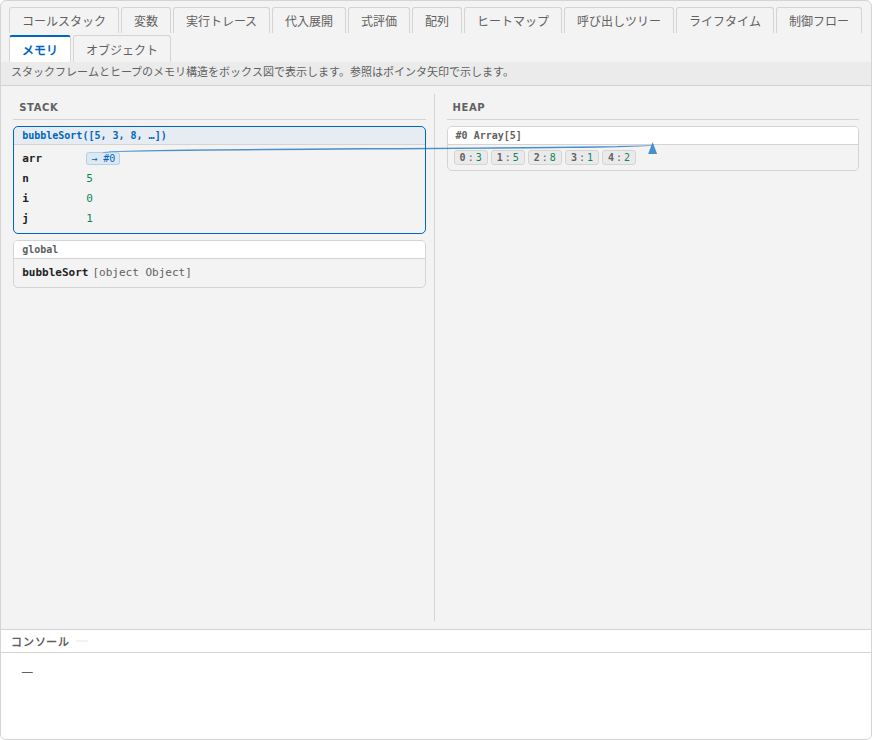
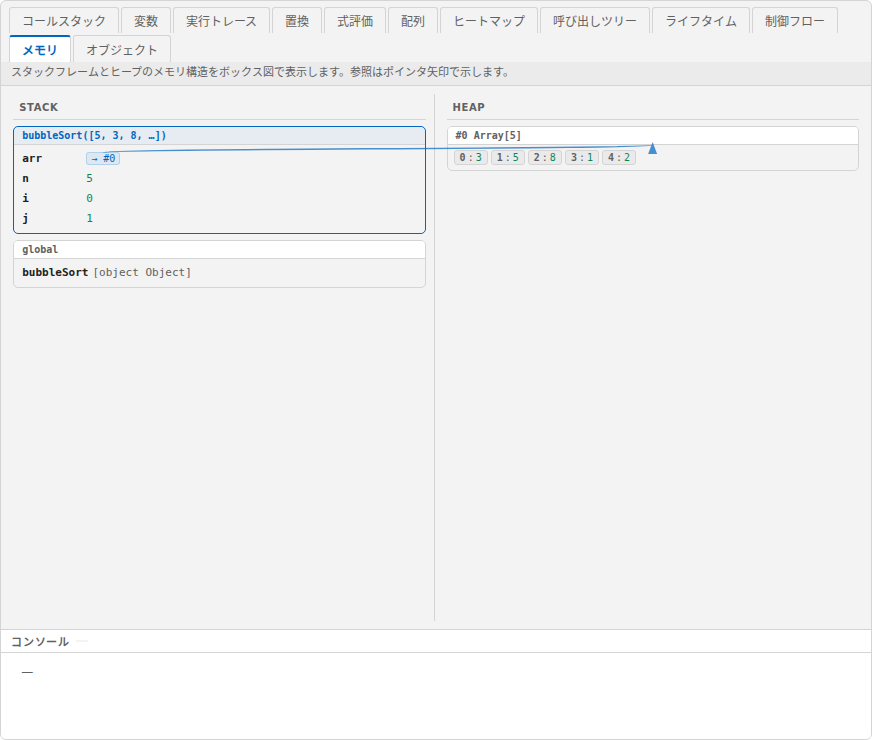
feat: 「代入展開」タブの名前を「置換」に変える
このビューは関数呼び出しを置換モデル（substitution model）で式に置き換えていく過程を表しており、
JavaScript の代入（assignment）とは関係がないため「代入展開」では意味が伝わらない（ADR-044）。
ビューIDは subst のまま。利用者向けマニュアル・README・CLAUDE.md・機能仕様書(1.18)・設計書を合わせて直し、
マニュアルのスクリーンショットを撮り直した。ADR一覧に抜けていた ADR-043 も追記した。

Changed region(s): [[0.3096, 0.0, 0.9599, 0.0622]]

diff --git a/web/manual.html b/web/manual.html
@@ -309,7 +309,7 @@
       <h2>6. 可視化ビュー</h2>
       <p>画面右側では、プログラムの動きをさまざまな形で見ることができます。上部のタブで12種類のビューを切り替えられます。目的によって分かりやすいビューは違うので、いろいろ試して自分に合った見方を探してみてください。</p>
       <ul>
-        <li>コードの内容によっては使えないビューがあり、そのタブはグレーで表示されます（たとえば、関数を使っていないコードでは「代入展開」「呼び出しツリー」は使えません）。</li>
+        <li>コードの内容によっては使えないビューがあり、そのタブはグレーで表示されます（たとえば、関数を使っていないコードでは「置換」「呼び出しツリー」は使えません）。</li>
         <li>最後に見ていたタブは、次に開いたときにも選ばれた状態になります。</li>
       </ul>
 
@@ -332,7 +332,7 @@
           <tr><td rowspan="3"><strong>状態</strong></td><td>変数の値</td><td>変数</td><td>実行トレース</td></tr>
           <tr><td>呼び出し中の関数</td><td>コールスタック</td><td>ライフタイム</td></tr>
           <tr><td>メモリの中身</td><td>メモリ</td><td>—</td></tr>
-          <tr><td rowspan="3"><strong>振る舞い</strong></td><td>式の計算</td><td>式評価</td><td>代入展開</td></tr>
+          <tr><td rowspan="3"><strong>振る舞い</strong></td><td>式の計算</td><td>式評価</td><td>置換</td></tr>
           <tr><td>文の実行</td><td>制御フロー</td><td>ヒートマップ</td></tr>
           <tr><td>関数の呼び出し</td><td>呼び出しツリー</td><td>—</td></tr>
           <tr><td rowspan="2"><strong>配列・オブジェクト</strong></td><td>配列</td><td>配列</td><td>実行トレース</td></tr>
@@ -365,7 +365,7 @@
         <thead><tr><th>タブ</th><th>見せ方</th><th>内容</th></tr></thead>
         <tbody>
           <tr><td><strong>式評価</strong></td><td>その時点</td><td>今計算している1行の式が、部分ごとに値に置き換わりながら最終的な値になるまでの過程を表示します。オレンジは直前に置き換わった部分、青の太字は次に計算される部分です。<code>||</code> や <code>&amp;&amp;</code> で計算が省略された部分は、元の式のまま残ります</td></tr>
-          <tr><td><strong>代入展開</strong></td><td>経過</td><td>再帰関数の呼び出しを、<code>fib(5)</code> → <code>fib(4) + fib(3)</code> → … のように、関数呼び出しをその結果の式に置き換えながら展開していく過程を、上から順に表示します</td></tr>
+          <tr><td><strong>置換</strong></td><td>経過</td><td>再帰関数の呼び出しを、<code>fib(5)</code> → <code>fib(4) + fib(3)</code> → … のように、関数呼び出しをその結果の式に置き換えながら展開していく過程を、上から順に表示します</td></tr>
           <tr><td><strong>制御フロー</strong></td><td>その時点</td><td>実行した行をつないだフローチャートを表示し、今実行している行を強調します。ループで戻る流れはオレンジの破線で示され、実行されなかった分岐はグレーになります</td></tr>
           <tr><td><strong>ヒートマップ</strong></td><td>経過</td><td>各行が何回実行されたかを、色の濃さと「今までの回数 / 全体の回数」で表示します。右側の点の並びは各行がいつ実行されたかを表し、ループで何度も実行される行がひと目で分かります</td></tr>
           <tr><td><strong>呼び出しツリー</strong></td><td>その時点</td><td>関数の呼び出しを木の形で表示します。各ノードに引数と戻り値が書かれ、灰色の破線は未呼び出し、青の太線は実行中、緑は完了した呼び出しです。左下の <code>cost</code> は、そのノードから下にある呼び出しの数（自分自身を含む）です。再帰関数が何回呼び出されるかを確かめるのに便利です</td></tr>
@@ -373,7 +373,7 @@
       </table>
       <div class="view-grid">
         <figure><img src="manual/ja/view-exprtrace.png" alt="式評価ビュー。式の部分が値に置き換わっていく様子が行ごとに表示されている" loading="lazy" /><figcaption>式評価</figcaption></figure>
-        <figure><img src="manual/ja/view-subst.png" alt="代入展開ビュー。fib(5)がfib(4)+fib(3)、…と展開されていく" loading="lazy" /><figcaption>代入展開</figcaption></figure>
+        <figure><img src="manual/ja/view-subst.png" alt="置換ビュー。fib(5)がfib(4)+fib(3)、…と展開されていく" loading="lazy" /><figcaption>置換</figcaption></figure>
         <figure><img src="manual/ja/view-controlflow.png" alt="制御フロービュー。実行された行がノードとして縦に並び、矢印でつながっている" loading="lazy" /><figcaption>制御フロー</figcaption></figure>
         <figure><img src="manual/ja/view-heatmap.png" alt="ヒートマップビュー。各行の実行回数と色の濃さ、実行タイミングの点が表示されている" loading="lazy" /><figcaption>ヒートマップ</figcaption></figure>
         <figure><img src="manual/ja/view-calltree.png" alt="呼び出しツリービュー。fib(5)を根として、fib(4)とfib(3)…と枝分かれした木" loading="lazy" /><figcaption>呼び出しツリー</figcaption></figure>
@@ -391,7 +391,7 @@
         <figure><img src="manual/ja/view-colorbox.png" alt="配列ビュー。配列の要素がマス目で表示され、添字の変数が指す要素が示されている" loading="lazy" /><figcaption>配列</figcaption></figure>
         <figure><img src="manual/ja/view-objgraph.png" alt="オブジェクトビュー。連結リストの3つのノードがnextの矢印でつながり、配列resultも表示されている" loading="lazy" /><figcaption>オブジェクト（サンプル「Linked List」）</figcaption></figure>
       </div>
-      <p>タブの並び順は上の分類とは異なります（左から コールスタック・変数・実行トレース・代入展開・式評価・配列・ヒートマップ・呼び出しツリー・ライフタイム・制御フロー・メモリ・オブジェクト）。この分類の考え方は、論文「プログラムの動作を複数のビューで可視化するプログラム実行環境の提案」（田中・上田、IS-26-049）の表1に基づきます。</p>
+      <p>タブの並び順は上の分類とは異なります（左から コールスタック・変数・実行トレース・置換・式評価・配列・ヒートマップ・呼び出しツリー・ライフタイム・制御フロー・メモリ・オブジェクト）。この分類の考え方は、論文「プログラムの動作を複数のビューで可視化するプログラム実行環境の提案」（田中・上田、IS-26-049）の表1に基づきます。</p>
     </section>
 
     <!-- ─────────────────────────────── -->
@@ -419,7 +419,7 @@
           <tr><td>サンプル選択を押しても選べない</td><td>コードを1つだけ開くリンクから開いています。組み込みのサンプルを使うには、<a href="https://tntetsu.github.io/JSVisualizer/">https://tntetsu.github.io/JSVisualizer/</a> を開き直してください</td></tr>
           <tr><td>「最大ステップ数 10,000 を超えたため停止しました」と表示される</td><td>ループが終わらない、再帰が止まらない、などの可能性があります。止まった時点までステップ実行で様子をたどり、終了条件を確認してください。処理の量が多いだけの場合は、扱うデータを小さくしてください</td></tr>
           <tr><td>キーボードでステップ実行できない</td><td>コードの編集欄などの入力欄にカーソルがあると、キー入力はそちらに入ります。実行モードで画面のほかの場所を一度クリックしてから操作してください</td></tr>
-          <tr><td>タブがグレーで選べない</td><td>そのコードでは使えないビューです（関数を使っていないコードの「代入展開」「呼び出しツリー」など）</td></tr>
+          <tr><td>タブがグレーで選べない</td><td>そのコードでは使えないビューです（関数を使っていないコードの「置換」「呼び出しツリー」など）</td></tr>
           <tr><td>画面が正しく表示されない</td><td>パソコンの最新のブラウザを使ってください。ページを再読み込みすると直ることがあります（スマートフォンでの利用は想定していません）</td></tr>
         </tbody>
       </table>

diff --git a/src/app.js b/src/app.js
@@ -164,7 +164,7 @@ switcher.register('exectrace',
   { ja: '代入・条件判定・関数呼び出しなど意味のある変化が起きたステップを時系列で一覧表示します。条件式の真偽も確認できます。',
     en: 'Lists meaningful steps (assignments, conditions, calls) in chronological order. Shows truth values of conditions.' });
 switcher.register('subst',
-  { ja: '代入展開', en: 'Subst' },
+  { ja: '置換', en: 'Subst' },
   SubstTrace,
   { ja: '再帰呼び出しを「置換モデル（関数呼び出しを等価な式に置き換えること）」で段階的に展開し、計算が縮約される過程を追跡します。',
     en: 'Expands recursive calls step by step using the substitution model (replacing a call with its equivalent expression).' });

diff --git a/src/views/subst-trace/index.js b/src/views/subst-trace/index.js
@@ -1,5 +1,5 @@
 /**
- * subst-trace/index.js — 代入展開トレースビュー
+ * subst-trace/index.js — 置換トレースビュー
  *
  * 再帰関数呼び出しを「置換モデル」で逐次展開して表示する。
  *
@@ -167,7 +167,7 @@ function computeReturnExpr(trace, returnEnterIdx, sourceLines) {
 }
 
 /**
- * trace を走査して代入展開トレースの行リストを構築する。
+ * trace を走査して置換トレースの行リストを構築する。
  * @returns {{ traceIdx: number, lineNo: number|null, text: string,
  *             expandedText: string|null, expandedStart: number,
  *             callStrToReplace: string|null }[]}

diff --git a/web/style.css b/web/style.css
@@ -1051,7 +1051,7 @@ body {
 .tt-col-target { width: 140px; color: var(--accent); font-family: 'Cascadia Code', Consolas, monospace; font-size: 11px; overflow: hidden; text-overflow: ellipsis; white-space: nowrap; max-width: 140px; }
 .tt-col-val    { }
 
-/* ── SubstTrace（代入展開ビュー） ─────────────────────────────── */
+/* ── SubstTrace（置換ビュー） ─────────────────────────────── */
 .stx-wrap {
   flex: 1;
   overflow-y: auto;

diff --git a/CLAUDE.md b/CLAUDE.md
@@ -45,7 +45,7 @@ JSVisualizer/
 │   │   ├── control-flow/         # 制御フロービュー（AST DOM フローチャート・未実行ノードグレー）✅
 │   │   ├── memory-view/          # メモリモデルビュー（スタック/ヒープ + SVG矢印）  ✅
 │   │   ├── object-graph/         # オブジェクト参照グラフ（SVG 階層型レイアウト・連結成分分離）✅
-│   │   ├── subst-trace/          # 代入展開ビュー（再帰置換モデル・ハイライト付き）  ✅  ← タブ「代入展開」
+│   │   ├── subst-trace/          # 置換ビュー（再帰置換モデル・ハイライト付き）  ✅  ← タブ「置換」
 │   │   ├── expr-trace/           # 式評価トレースビュー（部分式逐次置換）           ✅  ← タブ「式評価」
 │   │   └── animated-trace/       # アニメーション付きトレース表（実装済み・非アクティブ）
 │   ├── components/
@@ -387,7 +387,7 @@ ENボタンクリック → setLang('en') → dispatchEvent('langchange')
 - **Heatmap の改善**: 行の実行回数は humanStep 数ではなく文の実行単位で数える（`src/utils/line-exec.js` の `buildLineExecOwners()`。`sum += count;` のように 1 文が複数の humanStep を持っても 1 回）。背景色を `update()` ごとに現在ステップまでの実行回数で動的更新（`lineTimeline` + バイナリサーチ）。カウントを「N回 / M回」形式で表示。ドット幅 360px（3倍）。実行済みドット（`.hm-dot--past`）と未実行ドット（デフォルトグレー）を色分け。異なる行に遷移する連続 humanStep のドット間を `.hm-overlay-svg` 上の `<line class="hm-vline">` で常時表示（`init()` 時に `requestAnimationFrame` で描画）。`.hm-lines` は `position: relative`、オーバーレイ SVG は `position: absolute`。トグルボタンは廃止
 - **Arrays（配列ビュー、旧クラス名ColorBox）**: タブ名「配列」。複数配列を同時選択して表示（折り返しあり）。各配列ブロックを枠線（`border: 1px solid var(--border)`）＋背景色（`var(--surface2)`）で区切り表示。`#scanTrace()` の 2 パス走査で配列ごとの `maxWidth`（最大グリッド幅）と `maxGridHeight`（最大グリッド高）を事前計算。`#render()` で `.cb-grid` に `min-width`/`min-height` を設定し、配列長やポインタ行数が変化しても各ブロックの占有領域が動かないよう固定。空配列時も `.cb-grid` を描画して占有領域を確保。ポインタ変数は変数ごとに個別の行として表示。文字列値は切り詰めなしで表示。オブジェクト・配列要素は `'?'` ではなく `formatValue()` でキー:値ペアをそのまま表示し、セル幅は `#cellWidth()` が内容の文字数から算出（数値セルの幅比例フォントではなく固定 `OBJ_FONT=10px` を使用）
 - **ExecTrace（実行トレース）**: `init()` で実行順の行をすべて一括描画。行は humanStep ごとではなく文の実行ごと（`src/utils/line-exec.js` の `buildExecRows()`、[ADR-042](docs/adr/ADR-042-statement-execution-unit-in-views.md)）で、`console.log(x);` や `i++;` のように 1 文が複数の humanStep を持っても連続していれば 1 行にまとめ、値はその最後の humanStep 時点（文の実行後）を表示する。Program enter は行にしない。列 = # | 行 | コード | 配列（配列が登場する場合のみ）| 変数値（出現順）| 条件式（出現順）。`update()` は現在行ハイライト移動と scrollIntoView のみ（O(n)）。条件式列は `buildConditionExitSet` + `buildCondInfo` で while/for の各イテレーション条件値を正確に表示。**配列＋ポインタのミニ図**（`et-col-diagram`列）: そのステップでポインタ変数（`i`/`minIdx`等）が検出された配列のみ、Arrays ビューと同じ「インデックス行・値行・ポインタラベル行」のグリッドを描画。ポインタ検出・グリッド生成ロジックは `src/utils/array-grid.js`（`computeSubscriptVars`/`detectPointerVars`/`renderArrayGrid`/`valueToBoxColor`）に共通化し、Arrays（`color-box/index.js`）と共有。アニメーション型の Arrays では見えない「イテレーション横断のポインタ位置ズレ」を、時間軸型の ExecTrace で縦スクロールするだけで比較できるようにする統合（詳細は ADR-037）
-- **SubstTrace（代入展開）**: 再帰関数呼び出しを「置換モデル」で逐次展開。最初のユーザー定義関数呼び出しをトラッキングし、ReturnStatement enter ごとに `computeReturnExpr()` で return 式の識別子・サブ呼び出しを評価済みテキストへ置換。CSS クラスは `.stx-*`。ハイライト: 展開された部分（`stx-hl-expanded`）と次に置換される項（`stx-hl-pending`）
+- **SubstTrace（置換）**: 再帰関数呼び出しを「置換モデル」で逐次展開。最初のユーザー定義関数呼び出しをトラッキングし、ReturnStatement enter ごとに `computeReturnExpr()` で return 式の識別子・サブ呼び出しを評価済みテキストへ置換。CSS クラスは `.stx-*`。ハイライト: 展開された部分（`stx-hl-expanded`）と次に置換される項（`stx-hl-pending`）
 - **ExprTrace（式評価）**: 1行の式が部分式の逐次置換で最終値に収束する過程をトレース表形式で表示。対象ステートメント: `ExpressionStatement`・`VariableDeclaration` init・`IfStatement` test・`WhileStatement` test（イテレーションごと）・`ReturnStatement` 引数・`ForStatement` init/test/update（イテレーションごと）。列 = 式テキスト（変化するたびに行追加）+ 変数値列（式テキストに登場する識別子のみ・関数値除外）。ソース座標 → 表示座標変換に `srcPosToDispPos()` / `srcRangeToDispRange()`。展開ハイライト（橙 `xev-hl-expanded`）・評価待ちハイライト（青太字 `xev-hl-pending`）・未評価部分のグレーアウト（`xev-hl-unevaluated`、2026-08-05追加）の3種を表示。未評価部分は各行の累積 `subs`（適用済み置換）に覆われていないソース範囲を `computeUnevaluatedGaps()` で算出し、`buildExprHtml(text, ranges)` が文字単位の優先度配列（低: unevaluated → 中: expanded → 高: pending）で重なりを解決してレンダリングする。CSS クラスは `.xev-*`。`ev.callDepth !== outerCallDepth` で関数内部除外。**変数値の時系列表示**: Row 0 = enterIdx env（評価前）、中間行 = その exit イベント時点の env、最終行（2行以上のセクション）= exitIdx env（束縛・代入完了後）。`update()` でアクティブ行の TD を `trace[cursor].env` からリアルタイム書き換え（`#trace` フィールドに builder.trace を保持）。`VariableDeclaration` の位置取得はソース正規表現ベース（interpreter が VariableDeclarator イベントを emit しないため `trace[i+1]` に直接 init 式が来る）
 - **console.log 配列内文字列クォート**: JSInterpreter `formatLogArg(v, depth=0)` に `depth` 引数を追加。`depth > 0`（配列・オブジェクトの要素）の文字列は `'str'` 形式（シングルクォート付き）で表示し、Node.js の挙動と一致させる。トップレベル文字列（depth=0）はクォートなし
 - **while/for 条件式の humanStep 追加**: `TraceBuilder.buildHumanIndices()` で WhileStatement/DoWhileStatement の条件式 exit（深さ D+1）をイテレーションごとに humanStep として追加（`matchIdx` で範囲を限定）。ForStatement は条件式 exit と更新式 exit も同様に追加。WhileStatement/ForStatement の enter 自体は humanStep から除外（条件式評価で代替）。Variable・ExecTrace の `buildConditionExitSet` も同ロジックで while/for 条件列を正しく表示

diff --git a/docs/functional-spec.md b/docs/functional-spec.md
@@ -1,9 +1,9 @@
 # 機能仕様書
 
 **プロジェクト名**: JSVisualizer  
-**バージョン**: 1.17  
+**バージョン**: 1.18  
 **作成日**: 2026-05-25  
-**最終更新**: 2026-10-09  
+**最終更新**: 2026-10-19  
 **作成者**: Tetsuo Tanaka
 
 > [English version](functional-spec.en.md)
@@ -37,6 +37,7 @@
 | 1.11 | 2026-08-12 | **F-04: `exercise`レスポンスに任意の`title`を追加し、サンプル選択のプレースホルダに反映**: `code-editor.js`に`setPlaceholderLabel()`を追加し、演習タイトルが取得できた場合はサンプル選択の初期表示（既定「─ サンプル ─」）を演習タイトルに置き換える（i18nの言語切替で上書きされないよう対象optionの`data-i18n`属性を除去）（[ADR-032](adr/ADR-032-exercise-title-placeholder.md)）。あわせて、`exercise`のみ指定時の先頭コード自動読み込みでサンプル選択の値を変更しないよう修正（プレースホルダに演習タイトルを表示し続けるため） |
 | 1.12 | 2026-08-12 | **F-04: `exercise`/`code`指定時に組み込みサンプルをサンプル選択から取り除くよう変更**: 実機での動作確認で「─ Exercise ─」グループが組み込み8グループの後ろに埋もれ見つけにくいという指摘を受け、単純な並べ替えではなく組み込みサンプルを一時的に非表示にする方式へ変更。`code-editor.js`の`addRemoteGroup()`を廃止し`setRemoteCodes(items)`に置き換え（組み込みoptgroupを全削除してから渡されたコード一覧だけを追加）。`code`のみ指定時も同じ関数でコード1件だけの選択肢にする（[ADR-033](adr/ADR-033-hide-builtin-samples-when-remote.md)）。クエリなしのスタンドアロン起動は影響を受けない |
 | 1.13 | 2026-08-27 | **F-11: URLクエリ（`view`）による初期表示ビューの指定を追加**: BhvVisualizer連携のセッション内pre/post設問（「ツールに触れる前に予想→操作して確認→再回答」）で、`ViewSwitcher`が前回アクティブだったタブを`localStorage`から復元する既存挙動のままだと、学生ごとに無関係な過去セッションの続きから始まってしまい、「操作して確認」の内容が揃わない問題があった。`exercise-source.js`の`parseQuery()`に`view`を追加、`ViewSwitcher.setInitialView(id)`を新設し、そのページの**最初の実行（Run）1回だけ**`localStorage`の保存値より優先させる（`localStorage`自体は書き換えない）。`# BHV:`タグなしの通常機能（[ADR-036](adr/ADR-036-url-query-initial-view.md)） |
+| 1.18 | 2026-10-19 | **V-02c: タブ名を「代入展開」から「置換」に変更**（ADR-044）。このビューが表すのは代入ではなく置換モデル（substitution model）による関数呼び出しの置き換えであり、「代入展開」では意味が伝わらないため |
 | 1.17 | 2026-10-09 | **V-11: タブ名を「変数寿命」から「ライフタイム」に変更**（ADR-043）。ローカル変数を持たない関数でも関数の実行の区間を表しており、「変数寿命」では違和感があるため |
 | 1.16 | 2026-09-29 | **F-15: 各ビューのデータなし表示を翻訳対象に追加**（オブジェクト・代入展開・制御フロー・呼び出しツリー・変数寿命・変数、および非アクティブの棒グラフ・再帰ツリーで英語固定だった「No variables」「No function calls」等を`i18n.js`のキーに移した）。利用者向けマニュアル（`web/manual.html`・`manual.en.html`）とヘッダーの使い方ボタンを追加（[ADR-041](adr/ADR-041-user-manual-and-help-button.md)） |
 | 1.15 | 2026-09-28 | **3.2: 可視化ビューの2軸分類を追記**（可視化対象×時間表現。論文 IS-26-049 の表1に基づき、配列のタイムライン型はその後実装したV-02b ExecTraceとする）。**V-11の記述を実装に合わせて修正**（変数ごとのガントチャートではなく、コールスタックの深さを縦軸にしたフレームグラフ。英語版は修正済みだった）。タブ名を画面の表示に合わせて修正（ライフタイム→変数寿命、メモリモデル→メモリ）。変数寿命タブの画面上の説明文（`src/app.js`）もフレームグラフの内容に修正 |
@@ -189,7 +190,7 @@
 | 状態 | 変数の値 | 変数（V-02） | 実行トレース（V-02b） |
 | | コールスタック | コールスタック（V-01） | ライフタイム（V-11） |
 | | メモリ配置 | メモリ（V-13） | （提供しない） |
-| 振る舞い | 式の評価 | 式評価（V-02d） | 代入展開（V-02c） |
+| 振る舞い | 式の評価 | 式評価（V-02d） | 置換（V-02c） |
 | | 文の実行 | 制御フロー（V-12） | ヒートマップ（V-09） |
 | | 関数呼び出し | 呼び出しツリー（V-10b） | （提供しない） |
 | 複合型 | 配列 | 配列（V-07） | 実行トレース（V-02b） |
@@ -252,9 +253,9 @@
 
 ---
 
-#### V-02c: 代入展開ビュー（SubstTrace）✅ 実装済み
+#### V-02c: 置換ビュー（SubstTrace）✅ 実装済み
 
-タブ名: **代入展開**（タブ登録順: 実行トレースの次、式評価の前）
+タブ名: **置換**（2026-10-19に「代入展開」から変更、ADR-044。タブ登録順: 実行トレースの次、式評価の前）
 
 - 再帰関数呼び出しを「置換モデル（substitution model）」で逐次展開して表示
 - 最初のユーザー定義関数呼び出し（`factorial(5)` 等）から開始し、ReturnStatement ごとに関数呼び出し文字列を評価済み return 式で置換して行を追加
@@ -277,7 +278,7 @@
 
 #### V-02d: 式評価トレースビュー（ExprTrace）✅ 実装済み
 
-タブ名: **式評価**（タブ登録順: 代入展開の次、全ステップの前）
+タブ名: **式評価**（タブ登録順: 置換の次、全ステップの前）
 
 - 1行の式が評価される過程を部分式の逐次置換で表示する。部分式が評価されるたびに新しい行が追加される
 - 各セクションは `cursor >= enterIdx && cursor <= exitIdx` の間だけ表示（評価中の式のみ可視）

diff --git a/README.md b/README.md
@@ -61,7 +61,7 @@ JavaScript プログラムの実行過程をインタラクティブに可視化
 | **状態** | 変数の値 | 変数 | 実行トレース |
 | | コールスタック | コールスタック | ライフタイム |
 | | メモリ配置 | メモリ | （提供しない） |
-| **振る舞い** | 式の評価 | 式評価 | 代入展開 |
+| **振る舞い** | 式の評価 | 式評価 | 置換 |
 | | 文の実行 | 制御フロー | ヒートマップ |
 | | 関数呼び出し | 呼び出しツリー | （提供しない） |
 | **複合型** | 配列 | 配列 | 実行トレース |
@@ -79,14 +79,14 @@ JavaScript プログラムの実行過程をインタラクティブに可視化
 | | ライフタイム | タイムライン | 横軸を時間、縦軸をコールスタックの深さとして、各フレーム（関数の呼び出し）がいつからいつまで存在したかを帯で表示（帯には実引数付きの関数名とその時点の変数を表示）。関数の実行や、その引数・ローカル変数の生存期間がわかる |
 | | メモリ | アニメーション | スタック（スコープフレーム）とヒープ（オブジェクト・配列）を分離表示。SVG 矢印で参照関係を表現 |
 | **振る舞い** | 式評価 | アニメーション | 代入・宣言・if/while/for 条件・return 引数など1行の式の部分式を逐次置換しながら最終値に収束する過程をトレース表形式で表示。短絡評価で評価されなかった部分式は元の式のまま残る。変数値はステップごとにリアルタイム更新。2色ハイライト付き |
-| | 代入展開 | タイムライン | 再帰関数呼び出しを置換モデルで逐次展開。呼び出し式が return 式に置き換わる過程を展開ハイライト（橙）・次置換項ハイライト（青太字）付きで表示 |
+| | 置換 | タイムライン | 再帰関数呼び出しを置換モデルで逐次展開。呼び出し式が return 式に置き換わる過程を展開ハイライト（橙）・次置換項ハイライト（青太字）付きで表示 |
 | | 制御フロー | アニメーション | AST ベースのフローチャート（if/else を true/false 列で横並び・ループは条件＋本体）。未実行ノードをグレーで表示し通らなかった分岐が一目でわかる |
 | | ヒートマップ | タイムライン | 各行の実行回数を「N回/M回」形式＋背景色でステップごとに動的更新。時系列ドット（実行済み/未実行色分け、360px幅）も可視化。異なる行へ遷移する連続ドット間を SVG 縦線で常時表示 |
 | | 呼び出しツリー | アニメーション | 全関数呼び出し（再帰・非再帰を問わない）を SVG ツリーで表示。各ノードにサブツリーコスト（cost:N）を表示 |
 | **複合型** | 配列 | アニメーション | 複数の配列を色付き箱でインデックス付き表示。ポインタ変数は変数ごとに個別行で表示。各配列ブロックは枠線＋背景色で区切り、幅不足時は次行へ折り返し。ステップ間で配列位置が動かないよう最大サイズで領域を確保 |
 | | オブジェクト | アニメーション | オブジェクト・配列の参照関係を SVG グラフで表示（階層型レイアウト。連結成分を自動分離・ノードを背景色で色分け） |
 
-タブ上の並び順は上表とは異なります（コールスタック・変数・実行トレース・代入展開・式評価・配列・ヒートマップ・呼び出しツリー・ライフタイム・制御フロー・メモリ・オブジェクトの順。`1`〜`9` キーはこの順の 1〜9 番目に対応）。この分類の考え方は、論文「プログラムの動作を複数のビューで可視化するプログラム実行環境の提案」（田中・上田、IS-26-049）の表 1 に基づきます（論文執筆時点で未実装だった配列のタイムライン型は、その後、実行トレースの機能として実装しました）。
+タブ上の並び順は上表とは異なります（コールスタック・変数・実行トレース・置換・式評価・配列・ヒートマップ・呼び出しツリー・ライフタイム・制御フロー・メモリ・オブジェクトの順。`1`〜`9` キーはこの順の 1〜9 番目に対応）。この分類の考え方は、論文「プログラムの動作を複数のビューで可視化するプログラム実行環境の提案」（田中・上田、IS-26-049）の表 1 に基づきます（論文執筆時点で未実装だった配列のタイムライン型は、その後、実行トレースの機能として実装しました）。
 
 Console 出力（`console.log` ログ）は、どのタブを選択中でも右ペイン下部の**常時表示パネル**に表示されます（上端ドラッグで高さ変更可）。
 
@@ -140,7 +140,7 @@ https://tntetsu.github.io/JSVisualizer/?code=http%3A%2F%2Flocalhost%3A5000%2Fapi
 
 `exercise`・`code`とは独立に、`view`クエリパラメータで**最初の実行（Run）時に開くビュー**を指定できます（[ADR-036](docs/adr/ADR-036-url-query-initial-view.md)）。指定できる値は、右ペインのタブに対応する以下のIDです。
 
-`state`（コールスタック）・`trace`（変数）・`exectrace`（実行トレース）・`subst`（代入展開）・`exprtrace`（式評価）・`colorbox`（配列）・`heatmap`（ヒートマップ）・`calltree`（呼び出しツリー）・`lifetime`（ライフタイム）・`controlflow`（制御フロー）・`memory`（メモリ）・`objgraph`（オブジェクト）
+`state`（コールスタック）・`trace`（変数）・`exectrace`（実行トレース）・`subst`（置換）・`exprtrace`（式評価）・`colorbox`（配列）・`heatmap`（ヒートマップ）・`calltree`（呼び出しツリー）・`lifetime`（ライフタイム）・`controlflow`（制御フロー）・`memory`（メモリ）・`objgraph`（オブジェクト）
 
 ```
 # コードを開き、最初の実行でメモリビューを表示する

diff --git a/docs/adr/ADR-044-rename-subst-tab.md b/docs/adr/ADR-044-rename-subst-tab.md
@@ -1,0 +1,31 @@
+# ADR-044: 「代入展開」タブの名前を「置換」に変える
+
+## ステータス
+
+採択済み（2026-10-19）
+
+## コンテキスト
+
+`subst` ビュー（V-02c、SubstTrace）の日本語のタブ名は「代入展開」だった。このビューは、関数呼び出しを `fib(5)` → `fib(4) + fib(3)` → … のように、その関数の return 式（引数を値に置き換えたもの）で置き換えていく過程を表示する。いわゆる置換モデル（substitution model）である。
+
+しかし「代入」は JavaScript では `x = 1` のような変数への代入（assignment）を指す用語であり、このビューが表す内容とは関係がない。英語の「Subst（substitution）」の訳としても不自然で、学習者に「代入文を展開するビュー」と誤解させるおそれがある。
+
+## 決定
+
+日本語のタブ名を「**置換**」に変える（`src/app.js` の `switcher.register('subst', { ja: '置換', en: 'Subst' }, ...)`）。
+
+- 置換モデル（substitution model）の「置換」で、英語の「Subst」と対応する。ビューの説明文はもともと「置換モデル（関数呼び出しを等価な式に置き換えること）」と書いており、タブ名と説明文の用語が揃う
+- ビューID（`subst`）は変えない。BhvVisualizer の推奨初期ビュー（URLクエリ `view=subst`、ADR-036）やログの `view` イベントの値はそのまま使える
+- 利用者向けマニュアル（`web/manual.html`）の表記を改め、スクリーンショットを撮り直す
+
+BhvVisualizer 側（教員画面の推奨初期ビューの選択肢・学生向けマニュアル・ヒント文）も同じ名前に揃える（ADR-041: 両マニュアルの操作説明は共通）。
+
+## 結果
+
+- タブ名・マニュアル・README・CLAUDE.md・機能仕様書（V-02c、1.18）・設計書の表記が「置換」になった
+- 過去の改訂履歴の記述と ADR-014 の記述（「代入展開」）は当時の名前として残した
+
+## 代替案
+
+- **「置換モデル」**: 意味は最も正確だが、他のタブ名（「式評価」「配列」など）より長い。説明文で「置換モデル」と書いているので、タブ名は「置換」で足りる
+- **「展開」**: 「代入」の誤解はなくなるが、何を展開するのかが分からず、英語の「Subst」とも対応しない

diff --git a/docs/design.md b/docs/design.md
@@ -1447,7 +1447,7 @@ document.addEventListener('langchange', (e) => {
 
 **各ビューのデータなし表示**（v2.15、コミット`8b23054`）: 以前は各ビューに英語で直書きされていた「No variables」「No function calls」等を、
 `view-no-data`・`view-no-source`・`view-no-func-calls`・`subst-empty`・`recursiontree-empty`・`objgraph-no-vars`・`objgraph-no-objects`・
-`barchart-no-data` のキーで `t()` から取得する（オブジェクト・代入展開・制御フロー・呼び出しツリー・ライフタイム・変数、および非アクティブの棒グラフ・再帰ツリー）。
+`barchart-no-data` のキーで `t()` から取得する（オブジェクト・置換・制御フロー・呼び出しツリー・ライフタイム・変数、および非アクティブの棒グラフ・再帰ツリー）。
 
 **対象外**: エラーメッセージ（JSInterpreter 由来で追跡困難）・サンプルプログラム名（固有名詞的）。
 

diff --git a/docs/adr/README.md b/docs/adr/README.md
@@ -51,3 +51,5 @@ git 履歴（2026-05-25〜2026-06-08）と設計ドキュメントをもとに 2
 | [040](ADR-040-hide-study-ui-when-bhv-embedded.md) | BhvVisualizer埋め込み時は設定パネルの評価実験用UIを取り除く（`# BHV:`） | 2026-09-28 |
 | [041](ADR-041-user-manual-and-help-button.md) | 利用者向けマニュアル（日英）とヘッダーの使い方ボタン | 2026-09-29 |
 | [042](ADR-042-statement-execution-unit-in-views.md) | ヒートマップ・実行トレースで1つの文の実行を1回・1行として扱う | 2026-10-05 |
+| [043](ADR-043-rename-lifetime-tab.md) | 「変数寿命」タブの名前を「ライフタイム」に変える | 2026-10-09 |
+| [044](ADR-044-rename-subst-tab.md) | 「代入展開」タブの名前を「置換」に変える | 2026-10-19 |
